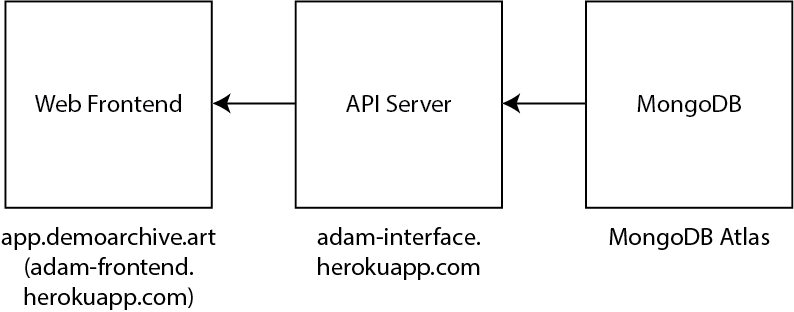
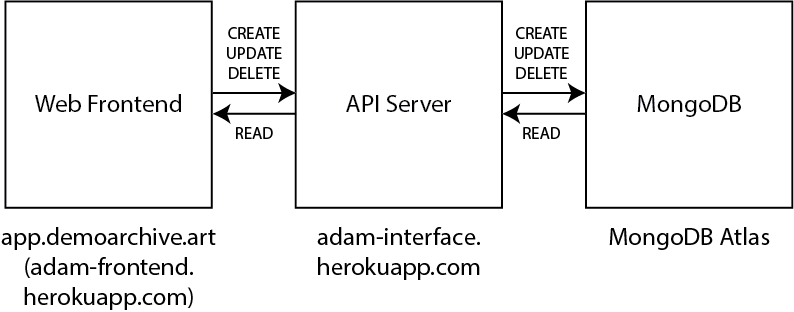
Replaced structure diagram and added explanation of routing strategy

Changed region(s): [[0.6348, 0.0865, 0.7557, 0.4615], [0.272, 0.0865, 0.3929, 0.4615]]

diff --git a/README.md b/README.md
@@ -5,7 +5,7 @@
 ## Inhaltsverzeichnis
 1. [Beschreibung](#1-beschreibung)
 2. [Bestandteile und Installation](#2-bestandteile-und-installation)
-3. [Detailansicht](#3-detailansicht)
+3. [Details der unterschiedlichen Views](#3-details-der-unterschiedlichen-views)
 4. [Die Struktur von ADAM](#4-die-struktur-von-adam)
 5. [Konzept der Mobile App](#5-konzept-mobile-app)
 6. [DB und API](#6-db-und-api)
@@ -23,14 +23,14 @@ Dieses Projekt dient nur zu Übungszwecken und wurde vom "Archive of Digital Art
 
 **Die Bilder in diesem Projekt sind nur Platzhalter von [adobestock.com](http://adobestock.com). Sie sind zwar Teil dieses Repositories, sind aber nicht zur allgemeinen Verwendung freigegeben.**
 
-ADAM besteht aus vier Teilen: Einem **API-Server** auf [adam-interface.herokuapp.com](https://adam-interface.herokuapp.com) mit Schnittstellen, um die Daten abzurufen, sowie einer Website mit einem **öffentlichen Bereich** auf [demoarchive.art](http://demoarchive.art/), in dem Besucher die Informationen über die digitalen Demo-Kunstwerke finden, und einem **Redaktionsbereich,** in dem Redakteure neue Inhalte einpflegen und bearbeiten können, und Administratoren die Rechte verwalten können. Zu guter Letzt ist eine **Mobile-App** geplant, mit der man Einträge erstellen kann, Fotos und Videos hochladen kann.
+ADAM besteht aus vier Teilen: Einem **API-Server** auf [adam-interface.herokuapp.com](https://adam-interface.herokuapp.com) mit Schnittstellen, um die Daten abzurufen, sowie einem Web-Frontend mit einem **öffentlichen Bereich** auf [demoarchive.art](http://demoarchive.art/), in dem Besucher die Informationen über die digitalen Demo-Kunstwerke finden, und einem **Redaktionsbereich,** in dem Redakteure neue Inhalte einpflegen und bearbeiten können, und Administratoren die Rechte verwalten können. Zu guter Letzt ist eine **Mobile-App** geplant, mit der man Einträge erstellen kann, Fotos und Videos hochladen kann.
 
 [« Zurück zum Inhaltsverzeichnis](#inhaltsverzeichnis)
 
 ## 2. Bestandteile und Installation
 Das Projekt besteht aus den folgenden Repositories:
 - **ADAM API Server** [github.com/mbalabanov/adam](https://github.com/mbalabanov/adam) (läuft auf Heroku auf [adam-interface.herokuapp.com](http://adam-interface.herokuapp.com))
-- **ADAM Web Frontend** [github.com/mbalabanov/adam-api](https://github.com/mbalabanov/adam-api) (läuft auf Heroku  auf [adam-frontend.herokuapp.com](https://adam-frontend.herokuapp.com) mit CNAME-Eintrag auf [app.demoarchive.art](https://app.demoarchive.art))
+- **ADAM Web-Frontend** [github.com/mbalabanov/adam-api](https://github.com/mbalabanov/adam-api) (läuft auf Heroku  auf [adam-frontend.herokuapp.com](https://adam-frontend.herokuapp.com) mit CNAME-Eintrag auf [app.demoarchive.art](https://app.demoarchive.art))
 
 ### 2.1 Installation
 Der ADAM API Server (Repository auf [github.com/mbalabanov/adam-api](https://github.com/mbalabanov/adam-api)) läuft unter NodeJS/Express. So starten Sie den Server lokal auf Port 5003:
@@ -57,13 +57,15 @@ Eigentlich kann man eine Angular Universal app auch mit `npm run dev:ssr` lokal 
 Der Grund dafür ist, dass Auth0 die DOM im Browser anspricht, aber die serverseitige App die DOM nicht kennt. Ich verwende derzeit die Domino-Bibliothek, um dem Server eine DOM vorzugaukeln, doch Auth0 erwartet eine echte DOM und gibt sporadisch Fehlermeldungen in der Angular CLI aus (funktioniert Client/Browser-seitig aber weiterhin hervorragend). Dies geschieht relativ selten im Vergleich zu den unzähligen SSR-Fehlermeldungen, die ohne Domino ausgegeben werden.
 
 ### 2.2 Frontend und API lokal ausführen
-Bitte zu beachten: Wenn Sie für das Web Frontend den lokal laufenden API Server verwenden möchten, dann findet Sie die URL der API in der Datei `src/app/apirequestservice.service.ts`.
+Bitte zu beachten: Wenn Sie für das Web-Frontend den lokal laufenden API Server verwenden möchten, dann findet Sie die URL der API in der Datei `src/app/apirequestservice.service.ts`.
 
 Diese einfach auf `http://localhost:5003` ändern, dann läuft alles nur lokal. So kann man das Frontend auf `http://localhost:4200` ausführen und sämtliche Daten von der API auf `http://localhost:5003` beziehen.
 
 [« Zurück zum Inhaltsverzeichnis](#inhaltsverzeichnis)
 
-## 3. Detailansicht
+## 3. Details der unterschiedlichen Views
+
+Hier ein Überblick der einzelenen Seitenansichten (Views).
 
 ### 3.1 Hauptseiten (Home, Search und Details)
 Hier können Benutzer nach Werken, Künstlern und Events suchen und die Details ansehen.
@@ -80,6 +82,8 @@ Diese Seiten dienen zur Information.
 [« Zurück zum Inhaltsverzeichnis](#inhaltsverzeichnis)
 
 ## 4. Die Struktur von ADAM
+
+ADAM ist ein Web-Frontend, das über eine API Daten von einer MongoDB bezieht und diese umgekehrt über die API auch in der MongoDB aktualisiert, schreibt und löscht.
 
 ![ADAM - Struktur](documentation/assets/structure.png)
 
@@ -120,28 +124,45 @@ Für mehr Details zur API siehe Dokumentation weiter unten.
 
 ### 4.2 Öffentlicher Bereich im Web-Frontend und fünf Arten von Ansichten:
 
-![ADAM - Data Model](documentation/assets/sitemap-public.png)
+Das Web-Frontend wurde mit Angular entwickelt. Es läuft als Angular Universal SSR App auf Heroku.
 
-4.2.1 **Startseite** mit Karussell für Einträge, die von Admins als "besonders interessant" markierte wurden, sowie ein Grid mit acht der chronologisch zuletzt publizierten Einträge, allgemeine Informationen über die Plattform, Suchfunktion und eine Kategorienauswahl, die beide auf die Suchergebnisseite mit Filtermöglichkeiten führt.
+### 4.2 Routing-Strategien
+Eine Angular-App läuft normalerweise vollkommen client-seitig (und kann Daten von einem Server beziehen). Für dieses Projekt war dieses Standardverhalten nicht geeignet. Anwender sollten in der Lage sein, die URL eines Eintrags mit anderen zu teilen. Das übliche Verhalten von Angular beruht auf der sogenannten "path location strategy". Hierbei wird die URL client-seitig gebildet, deshalb kann eine URL nicht mit anderen geteilt werden. Wenn eine geteilte URL (z.B. https://app.demoarchive.art/item/artifacts/a1 ) bei bestehender "path location strategy" von anderen Usern eingegeben werden, dann erhalten diese eine 404-Fehlermeldung, da ihre Instanz der Angular-Anwendung die URL noch nicht gebildet hat. Dieses Standardverhalten von Angular mit der "path location strategy" war somit nicht für das ADAM Web-Frontend geeignet.
 
-4.2.2 **Suchergebnisseite** auf der die Suchergebnisse gefiltert werden können.
+Für Angular-Apps mit Website-Charakter ist die sogenannte "hash location strategy" vorgesehen. Hier wird an die Domain ein Hash-Zeichen (Raute) angehängt, bevor der Rest der Domain angehängt wird (z.B. https://app.demoarchive.art/#/item/artifacts/a1 ). Dies ermöglicht es, die URL eines Eintrages an andere zu verschicken und als Lesezeichen zu speichern. Doch auch die "hash location strategy" ist nicht für die ADAM-App geeignet. Die verwendet Auth0.com für die Authentisierung (Login und Registrierung) von Benutzern. Wenn User sich über Auth0.com eingeloggen, werden sie wieder an die ADAM-App zurückgeschickt. Auth0.com gibt einen Callback an den auth.service zurück. Doch durch die "hash location strategy" von Angular geht der Callback verloren. Ohne Anpassungen, die den Rahmen dieses Projekts bei weitem überschreiten, können Auth0.com und die "hash location strategy" nicht gemeinsam verwendet werden.
 
-4.2.3 **Detailseite,** die für die Detailansicht eines Artefakts, eines Künstlers und eines Events verwendet wird. Das Layout besteht aus einer Beschreibung, eines Fotobereichs, eines Bereichs für ein eingebettetes Video und darunter einer Liste an verwandten Einträgen:
+Die Lösung für die Anfoderung einer teilbaren URL ist der Einsatz von Angular Universal SSR. Hier wird zwar die "path location strategy" (das Standardverhalten) beibehalten. Allerdings wird beim ersten Aufruf der Angular-App die jeweilige Seite server-seitig zusammengestellt (gerendert). Das bedeutet, dass eine URL wie https://app.demoarchive.art/item/artifacts/a1 (also ohne "#") zuerst server-seitig gerendert wird, also durchaus geteilt werden kann. Angular Universal hat einen weiteren Vorteile, den "herkömmliche" Websites immer schon hatten, die Site kann von Suchmaschinen gecrawlt und indiziert werden.
+
+Allerdings gibt es hier einen Wermutstropfen. Da einzelen Seiten/Views der App server-seitig gerendert werden, darf die DOM nicht ohne User-Interaktion angesprochen werden, weil der Server keine DOM kennt. Das wiederum führt zu kleinen, aber nicht kritischen Konflikten mit Auth0.com, das seinerseits die DOM anspricht. Diese Konflikte sind keine KO-Kriterien, weil sie sich nur als serverseitige Fehlermeldungen  äußern, ohne die Funktionsweise zu beeinträchtigen. Wenn die Authentisierung vom Anwender aufgerufen wird, dann verhält sich die App wie vorgesehen. Da die ständigen server-seitigen Fehlermeldungen während der lokalen Entwicklung störend sind, wird davon abgeraten `npm run dev:ssr` zum Starten der App zu verwenden und stattdessen auf das bewährte `ng serve` zurückzugreifen. Trotzdem wird empfohlen, sicherheitshalber gelegentlich auch mit `npm run dev:ssr` zu testen.
+
+Doch auch für die fehlende DOM auf Seite des Servers, sieht Angular Universal ein Workaround vor. Mit dem Domino-Modul kann der App auf dem Server eine DOM "vorgegaukelt" werden. Dieses Modul kommt bei ADAM zum Einsatz. Dadurch werden die Angular Universal-Fehlermeldungen komplett vermieden... allerdings kommen nun Fehlermeldungen vom auth.service, der die Auth0.com-Authentisierung anspricht, weil dieses Service mit einer vorgegaukelten DOM nichts anfangen kann und eine echte, ehrliche DOM erwartet. Diese server-seitigen Fehlermeldungen sind allerdings viel seltener, und auch hier beeinträchtigen sie die Funktionsweise der App überhaupt nicht.
+
+Soweit zum Exkurs über den Aufwand, der notwendig war, um dieser Angular App ein Verhalten zu verpassen, das für die allermeisten anderen Websites selbstverständlich ist, ohne auch nur einen Finger zu rühren.
+
+
+### 4.3 Sitemap
+![ADAM - Sitemap](documentation/assets/sitemap-public.png)
+
+4.3.1 **Startseite** mit Karussell für Einträge, die von Admins als "besonders interessant" markierte wurden, sowie ein Grid mit acht der chronologisch zuletzt publizierten Einträge, allgemeine Informationen über die Plattform, Suchfunktion und eine Kategorienauswahl, die beide auf die Suchergebnisseite mit Filtermöglichkeiten führt.
+
+4.3.2 **Suchergebnisseite** auf der die Suchergebnisse gefiltert werden können.
+
+4.3.3 **Detailseite,** die für die Detailansicht eines Artefakts, eines Künstlers und eines Events verwendet wird. Das Layout besteht aus einer Beschreibung, eines Fotobereichs, eines Bereichs für ein eingebettetes Video und darunter einer Liste an verwandten Einträgen:
     a. Bei einer _Künstler-Detailseite_ eine Liste der Arbeiten des Künstlers.
     b. Bei einer _Artefakt-Detailseite_ eine Liste der Künstler, die das Kunstwerk erschaffen haben
     C. Bei einer _Detailseite über ein Event_ eine Liste der ausgestellten Werke.
 
-4.2.4 **Informationsseite,** in der allgemeine Informationen zu einem Thema stehen mit Text und Bildern, z.B. Artikel über Neuigkeiten, aber auch Nutzungsbedingungen und Datenschutzerklärung
+4.3.4 **Informationsseite,** in der allgemeine Informationen zu einem Thema stehen mit Text und Bildern, z.B. Artikel über Neuigkeiten, aber auch Nutzungsbedingungen und Datenschutzerklärung
 
-4.2.5 Seite für den **Login bzw. die Registrierung** über den auth0.com Service
+4.3.5 Seite für den **Login bzw. die Registrierung** über den auth0.com Service
 
-4.2.6 **News-Seiten** mit dynamischem Inhalt. Diese beziehen ihren Inhalt über die API (/news und /news:id).
+4.3.6 **News-Seiten** mit dynamischem Inhalt. Diese beziehen ihren Inhalt über die API (/news und /news:id).
 
-4.2.7 Diverse **Info-Seiten** über die allgemeine Bedienung des Kunstarchivs (z.B. "About", "Privacy Policy" und andere Complaince-Seiten). Diese beziehen ihren Inhalt ebenfalls über die API (/compliance).
+4.3.7 Diverse **Info-Seiten** über die allgemeine Bedienung des Kunstarchivs (z.B. "About", "Privacy Policy" und andere Complaince-Seiten). Diese beziehen ihren Inhalt ebenfalls über die API (/compliance).
 
-4.2.8 Die **Kontaktseite** ist statisch und hat ein Kontaktformular.
+4.3.8 Die **Kontaktseite** ist statisch und hat ein Kontaktformular.
 
-### 4.3 Umgesetzte Struktur
+### 4.4 Umgesetzte Struktur
 Die folgende Struktur wurde auch tatächlich umgesetzt (hier mit einer Auflistung sämtlicher Components, die auf den Einzelseiten verwendet werden). Dieses Diagram entstand mit [MonoDraw](https://monodraw.helftone.com).
 
 ````
@@ -254,19 +275,19 @@ Die folgende Struktur wurde auch tatächlich umgesetzt (hier mit einer Auflistun
 
 ````
 
-### 4.4 Wireframes Besucheransicht
+### 4.5 Wireframes Besucheransicht
 Untenstehend finden Sie die ursprünglichen Wireframes des öffentlichen Bereichs, den Benutzer besuchen können, ohne vorher einloggen zu müssen.
 
 ![ADAM - Wireframes](documentation/assets/adam-wireframes-v0_5.png)
 
-### 4.5 Nicht-öffentlicher Bereich im selben Web-Frontend mit...
+### 4.6 Nicht-öffentlicher Bereich im selben Web-Frontend mit...
 
-4.5.1 **Redaktionsansicht** in der Benutzer mit Editor-Rechten bestehende Einträge bearbeiten können (Edit-Funktion wird nur nach dem Einloggen sichtbar) sowie neue Einträge erstellen können (Funktion für einen neuen Eintrag ist auch erst nach dem Einloggen sichtbar). Dieser Bereich befindet sich im Angular Webfrontend.
+**4.6.1 Redaktionsansicht** in der Benutzer mit Editor-Rechten bestehende Einträge bearbeiten können (Edit-Funktion wird nur nach dem Einloggen sichtbar) sowie neue Einträge erstellen können (Funktion für einen neuen Eintrag ist auch erst nach dem Einloggen sichtbar). Dieser Bereich befindet sich im Angular Webfrontend.
 
-4.5.2 **Admin-Bereich,** um Benutzer zu verwalten (deaktivieren und reaktivieren). Dieser Bereich befindet sich in Auth0.com
+**4.6.2 Admin-Bereich,** um Benutzer zu verwalten (deaktivieren und reaktivieren). Dieser Bereich befindet sich in Auth0.com
 
 
-### 4.6 Wireframes Redaktionsansicht
+### 4.7 Wireframes Redaktionsansicht
 Untenstehend finden Sie die ursprünglichen Wireframes des Redaktionsbereichs, der nur für Benutzer zugänglich ist, die sich vorher eingeloggt haben.
 
 ![ADAM - Data Model](documentation/assets/create-object.png)
